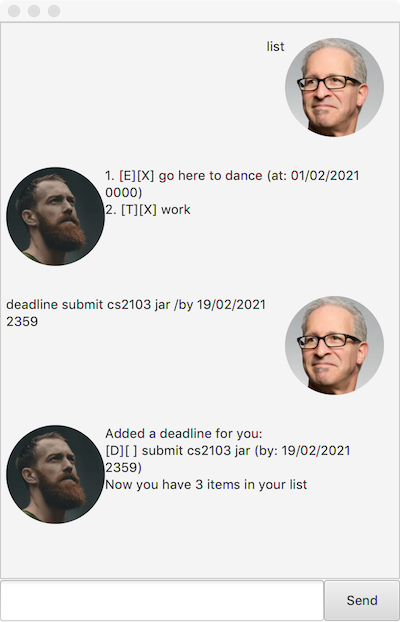
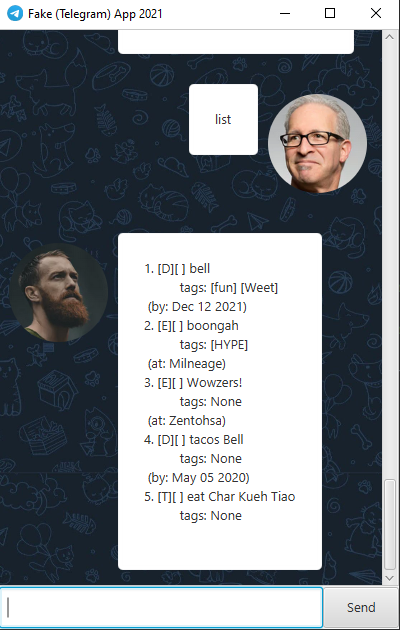
Update Ui.png docs/README.md

diff --git a/src/main/java/model/Tag.java b/src/main/java/model/Tag.java
@@ -1,0 +1,82 @@
+package model;
+
+import static java.util.Objects.requireNonNull;
+
+/**
+ * Code from AB3.
+ * Represents a Tag in the address book.
+ * Guarantees: immutable; name is valid as declared in {@link #isValidTagName(String)}
+ *
+ * @author  Damith
+ * @version 1.0
+ * @since   2019-09-19
+ */
+public class Tag {
+
+    public static final String MESSAGE_CONSTRAINTS = "Tags names should be alphanumeric";
+    public static final String VALIDATION_REGEX = "\\p{Alnum}+";
+
+    public final String tagName;
+
+    /**
+     * Constructs a {@code Tag}.
+     *
+     * @param tagName A valid tag name.
+     */
+    public Tag(String tagName) {
+        requireNonNull(tagName);
+        checkArgument(isValidTagName(tagName), MESSAGE_CONSTRAINTS);
+        this.tagName = tagName;
+    }
+
+    /**
+     * Checks if a given string is a valid tag name.
+     *
+     * @param test string tag name to be used.
+     * @return true if the tag name is valid.
+     */
+    public static boolean isValidTagName(String test) {
+        return test.matches(VALIDATION_REGEX);
+    }
+
+    @Override
+    public boolean equals(Object other) {
+        return other == this // short circuit if same object
+                || (other instanceof Tag // instanceof handles nulls
+                && tagName.equals(((Tag) other).tagName)); // state check
+    }
+
+    @Override
+    public int hashCode() {
+        return tagName.hashCode();
+    }
+
+    /**
+     * Formats state as text for viewing.
+     * @return formatted string for viewing.
+     */
+    public String toString() {
+        return '[' + tagName + ']';
+    }
+
+    /**
+     * Retrieves the tag's name as a string.
+     *
+     * @return string tag name of this tag object.
+     */
+    public String getTagName() {
+        return this.tagName;
+    }
+
+
+    /**
+     * Checks that {@code condition} is true. Used for validating arguments to methods.
+     *
+     * @throws IllegalArgumentException with {@code errorMessage} if {@code condition} is false.
+     */
+    public static void checkArgument(Boolean condition, String errorMessage) {
+        if (!condition) {
+            throw new IllegalArgumentException(errorMessage);
+        }
+    }
+}

diff --git a/docs/README.md b/docs/README.md
@@ -16,6 +16,8 @@ Duke is a personal task manager in the form of a chatbot. He can help you track 
 ## Features
 Duke supports 3 main types of tasks: Todos, Deadlines and Events. You can perform Create, Read and Delete operations on these tasks, or mark them as done. Duke also helps you search for tasks if the list gets too long.
 
+Furthermore, Duke recently supposed the function to add tags! You can now optionally add tag(s) to a post to highlight the category that post falls into.
+
 ## Usages
 
 #### `list` &mdash; List Tasks
@@ -24,14 +26,9 @@ Lists all the tasks you have inserted into Duke.
 list
 ```
 
-#### `sort` &mdash; Sort Tasks
-Lists all the tasks you have inserted into Duke in alphabetical order.
-```
-sort
-```
 
 #### `find` &mdash; Find Tasks
-Search for tasks that match a given search string
+Search for tasks that match a given search string (Case-Sensitive, for further accuracy!)
 ```
 find <search_string>
 ```
@@ -51,19 +48,19 @@ delete <task_index>
 #### `todo` &mdash; Add a Todo
 Add a todo. Todos do not have any time specified.
 ```
-todo <todo_name>
+todo <todo_name> <tag(s)>
 ```
 
 #### `deadline` &mdash; Add a Deadline
-Add a deadline. The `time` parameter should follow the format specified at `Guide format and input restrictions`.
+Add a deadline. The `time` parameter should follow the format specified at `Guide format and input restrictions`. It must be strictly `dddd-mm-yy`
 ```
-deadline <deadline_name> /by <time>
+deadline <deadline_name> /by <time> <tag(s)>
 ```
 
 #### `event` &mdash; Add an Event
 Add an event. The `time` parameter should follow the format specified at `Guide format and input restrictions`.
 ```
-event <event_name> /at <time>
+event <event_name> /at <time> <tag(s)>
 ```
 
 #### `bye` &mdash; Exit app
@@ -73,6 +70,11 @@ bye
 ```
 
 ## Acknowledgements
-- JSON formatting library from [Jackson](https://github.com/FasterXML/jackson)
-- GUI from [JavaFX](https://openjfx.io)
-- Unit Testing from [JUnit5](https://github.com/junit-team/junit5)
+* JSON formatting library from [Jackson](https://github.com/FasterXML/jackson)
+* GUI from [JavaFX](https://openjfx.io)
+* Unit Testing from [JUnit5](https://github.com/junit-team/junit5)
+* [Azeem](https://github.com/DrWala/) for his repo to help me install Gradle and get my JavaFX GUI working since it was not working on my end even after following the steps provided
+* [Prof Damith](https://github.com/damithc) for his gradle.yaml file for Continuous Integration
+* Team [Duke](https://github.com/se-edu) for the skeleton code for the original Duke App
+* [AB3](https://github.com/nus-cs2103-AY1920S1/addressbook-level3) for reference to the BCD-Extension regarding Tags
+* All copyrighted images and their respective sources

diff --git a/README.md b/README.md
@@ -22,10 +22,3 @@ Prerequisites: JDK 11, update Intellij to the most recent version.
    | |_| | |_| |   <  __/
    |____/ \__,_|_|\_\___|
    ```
-
-## Acknowldgements
-* [Azeem](https://github.com/DrWala/) for his repo to help me install Gradle and get my JavaFX GUI working since it was not working on my end even after following the steps provided
-* [Prof Damith](https://github.com/damithc) for his gradle.yaml file for Continuous Integration
-* Team [Duke](https://github.com/se-edu) for the skeleton code for the original Duke App
-* [AB3](https://github.com/nus-cs2103-AY1920S1/addressbook-level3) for reference to the BCD-Extension regarding Tags
-* All copyrighted images and their respective sources
